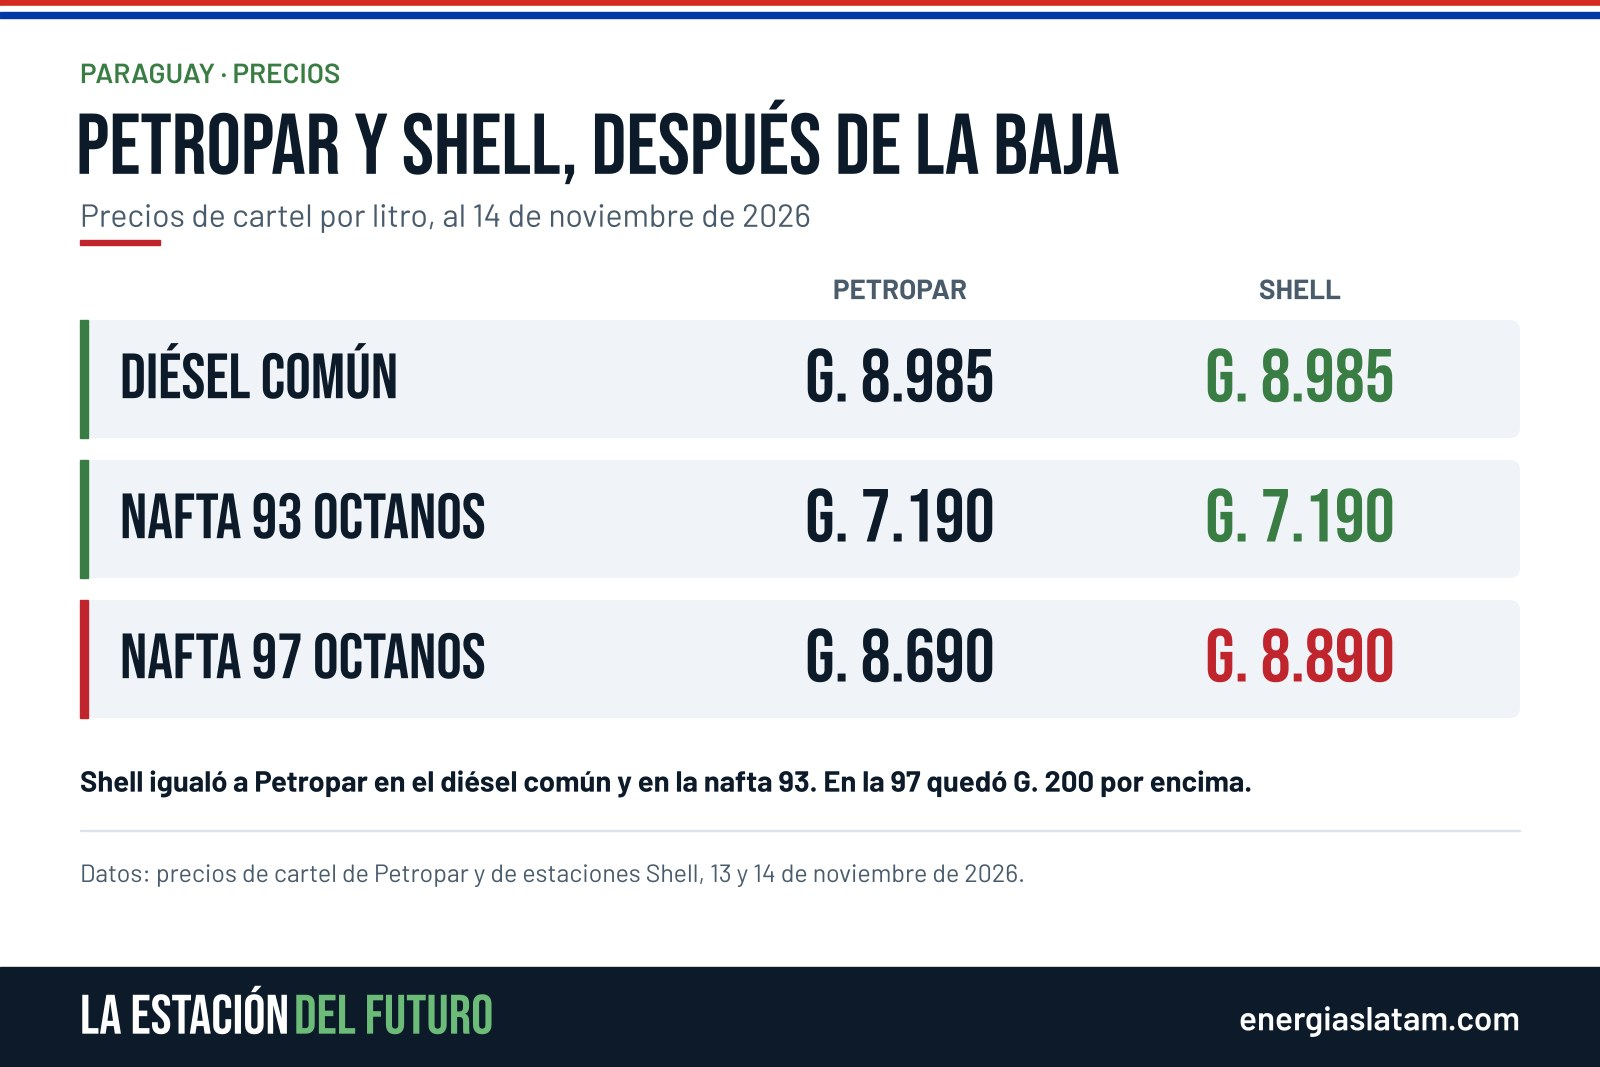
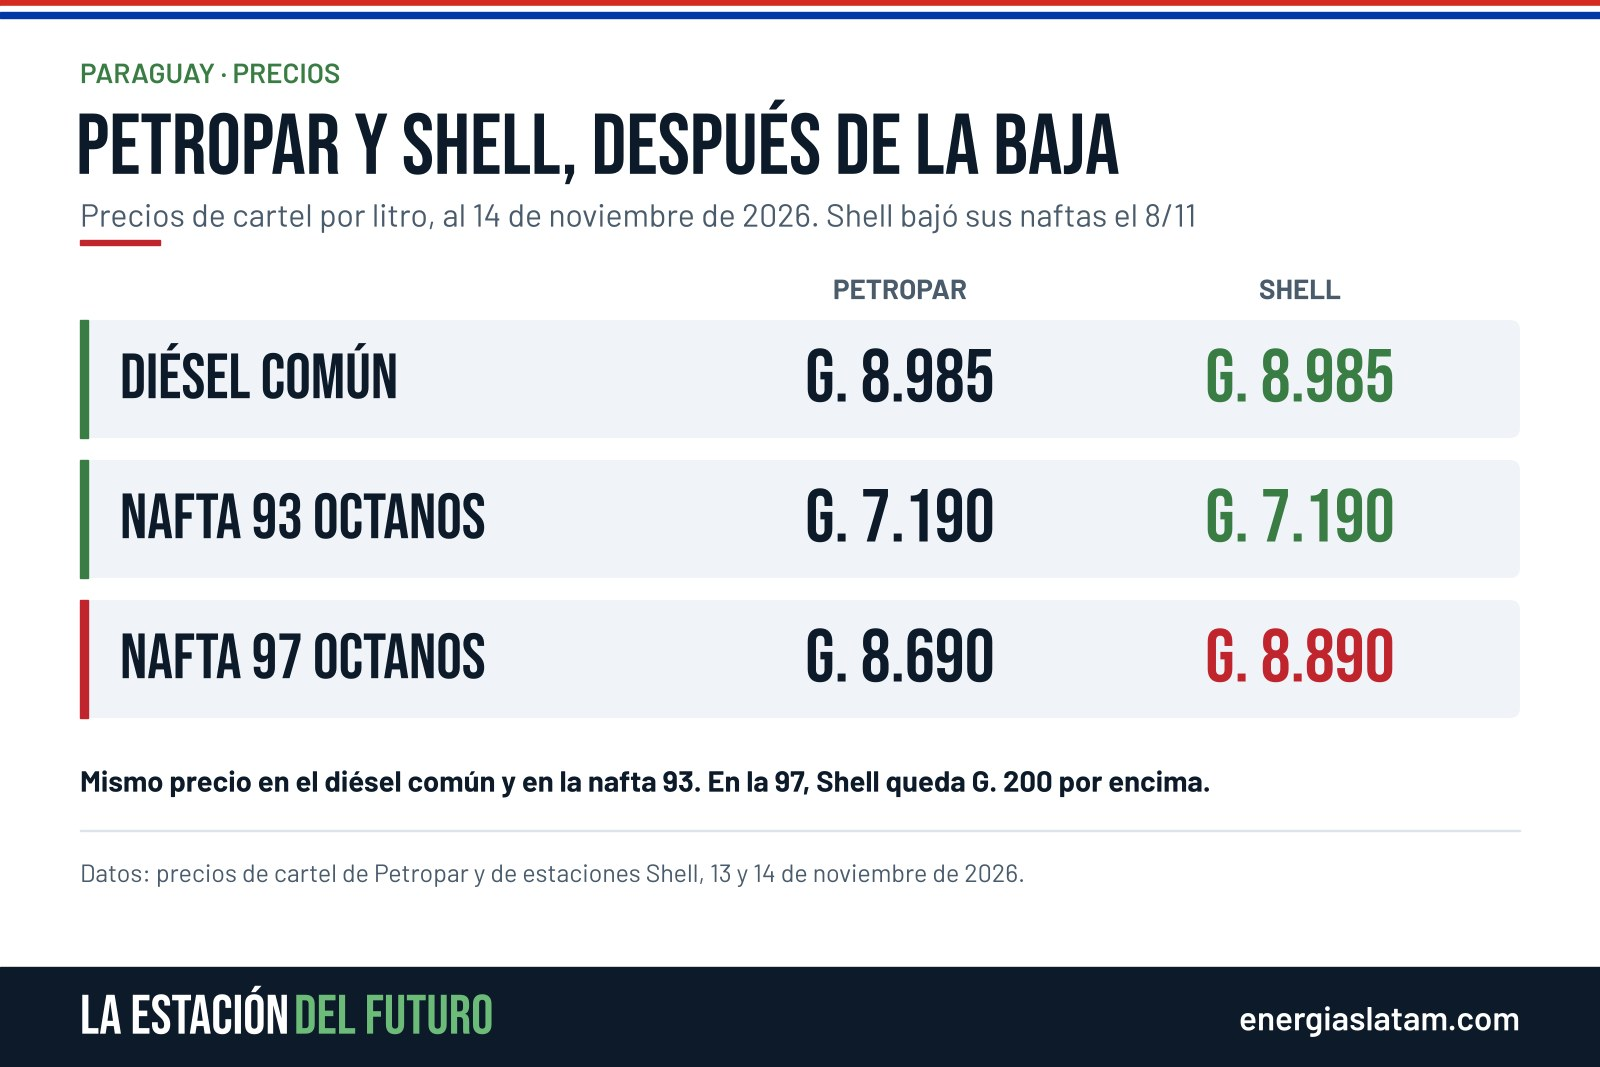
Decreto 7.229: Shell había bajado las naftas el 8/11; texto, placa y carrusel corregidos
Claude-Session: https://claude.ai/code/session_01HHGRFrapr8AXyd2C4Baz1m

Changed region(s): [[0.0312, 0.7113, 0.7812, 0.7423], [0.5, 0.1856, 0.75, 0.2165]]

diff --git a/revision/dc15.py b/revision/dc15.py
@@ -37,12 +37,12 @@ ax.text(120,675,'HASTA EL 31 DE DICIEMBRE DE 2026',fontfamily=BB,fontsize=32,col
 ax.text(120,720,'Alcanza solo al diésel tipo III. Las naftas no están incluidas en el decreto.',fontfamily=B,fontweight='semibold',fontsize=20,color='white',va='center')
 ax.text(120,754,'Desde el 1 de enero de 2027 vuelve la base anterior, si no hay prórroga.',fontfamily=B,fontweight='semibold',fontsize=20,color='white',va='center')
 foot(fig,ax,'Datos: Decreto N° 7.229 del Poder Ejecutivo, 13 de noviembre de 2026.','-1.jpg')
-fig,ax=hdr('PARAGUAY · PRECIOS','PETROPAR Y SHELL, DESPUÉS DE LA BAJA','Precios de cartel por litro, al 14 de noviembre de 2026')
+fig,ax=hdr('PARAGUAY · PRECIOS','PETROPAR Y SHELL, DESPUÉS DE LA BAJA','Precios de cartel por litro, al 14 de noviembre de 2026. Shell bajó sus naftas el 8/11')
 ax.text(900,288,'PETROPAR',fontfamily=B,fontweight='bold',fontsize=20,color=MU,va='center',ha='center'); ax.text(1300,288,'SHELL',fontfamily=B,fontweight='bold',fontsize=20,color=MU,va='center',ha='center')
 for i,(p,a1,b1,eq) in enumerate([('DIÉSEL COMÚN','8.985','8.985',1),('NAFTA 93 OCTANOS','7.190','7.190',1),('NAFTA 97 OCTANOS','8.690','8.890',0)]):
     y=320+i*140; rb(ax,80,y,1440,118,SO,10); ax.add_patch(Rectangle((80,y),8,118,color=GR if eq else RD))
     ax.text(120,y+59,p,fontfamily=BB,fontsize=46,color=NV,va='center')
     ax.text(900,y+59,'G. '+a1,fontfamily=BB,fontsize=54,color=NV,va='center',ha='center'); ax.text(1300,y+59,'G. '+b1,fontfamily=BB,fontsize=54,color=GR if eq else RD,va='center',ha='center')
-ax.text(80,780,'Shell igualó a Petropar en el diésel común y en la nafta 93. En la 97 quedó G. 200 por encima.',fontfamily=B,fontweight='bold',fontsize=21,color=NV,va='center')
+ax.text(80,780,'Mismo precio en el diésel común y en la nafta 93. En la 97, Shell queda G. 200 por encima.',fontfamily=B,fontweight='bold',fontsize=21,color=NV,va='center')
 foot(fig,ax,'Datos: precios de cartel de Petropar y de estaciones Shell, 13 y 14 de noviembre de 2026.','-2.jpg')
 print('ok')

diff --git a/revision/dc15_carr.py b/revision/dc15_carr.py
@@ -40,7 +40,7 @@ fig,ax=base(1,'LA ESTACIÓN DEL FUTURO · PARAGUAY')
 for i,(l,c2) in enumerate([('ESTE LUNES',W),('BAJAN LOS',W),('PRIVADOS',G)]):
     ax.text(66,300+i*150,l,fontfamily=BB,fontsize=136,color=c2,va='center')
 ax.add_patch(Rectangle((70,760),140,7,color=G))
-for i,l in enumerate(['Qué dice el decreto del diésel y cómo','quedó Shell frente a Petropar']):
+for i,l in enumerate(['Qué dice el decreto del diésel y cómo','quedaron Shell y Petropar']):
     ax.text(70,840+i*62,l,fontfamily=B,fontweight='bold',fontsize=40,color=W,va='center')
 ax.text(70,1040,'Domingo 15 de noviembre',fontfamily=B,fontweight='semibold',fontsize=27,color=M,va='center')
 save2(fig,1)
@@ -56,9 +56,9 @@ fig,ax=base(4,'LOS PRIVADOS')
 y=title(ax,['POR QUÉ','RECIÉN EL LUNES'])
 cards(ax,[('El decreto','Se publicó el viernes a última hora'),('Sin despachos','No hubo entregas el fin de semana'),('Desde el lunes 16','La mayoría factura al precio nuevo')],y+60,h=140)
 save2(fig,4)
-fig,ax=base(5,'SHELL SE ADELANTÓ')
-y=title(ax,['IGUALÓ A','PETROPAR'])
-big3(ax,y,[('G. 8.985','diésel común, igual que Petropar'),('G. 7.190','nafta 93, igual que Petropar'),('G. 8.890','nafta 97, G. 200 más que Petropar')],fs=60)
+fig,ax=base(5,'SHELL Y PETROPAR')
+y=title(ax,['PRECIOS','EMPAREJADOS'])
+big3(ax,y,[('G. 8.985','diésel común en Shell y en Petropar'),('G. 7.190','nafta 93 en los dos; Shell la bajó el 8/11'),('G. 8.890','nafta 97 en Shell; G. 8.690 en Petropar')],fs=60)
 save2(fig,5)
 fig,ax=base(6,'QUÉ SIGNIFICA PARA LA ESTACIÓN')
 y=title(ax,['LUNES CON','PRECIO NUEVO'])
